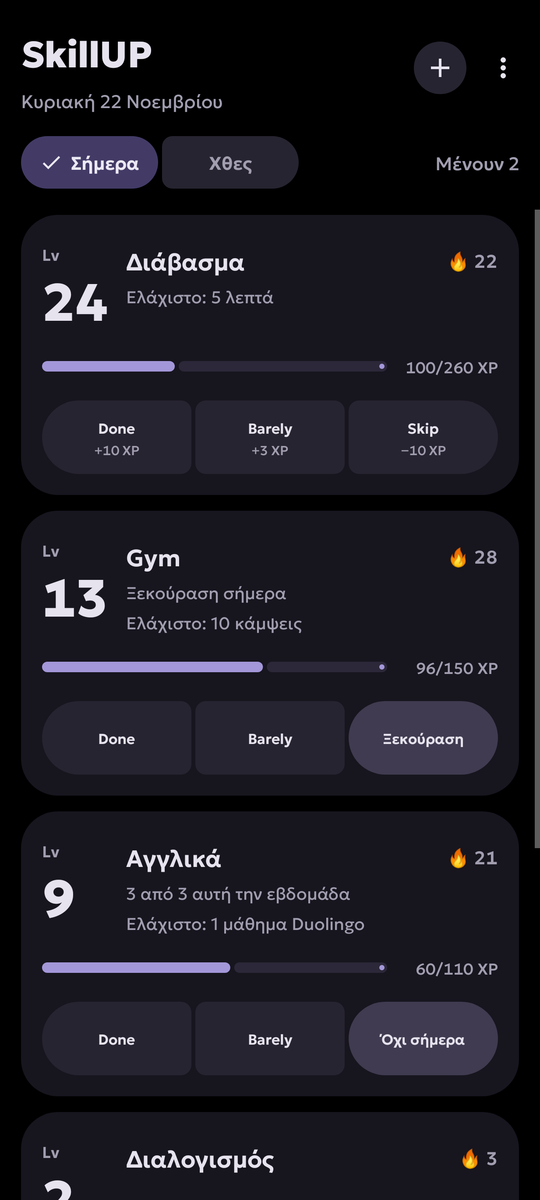
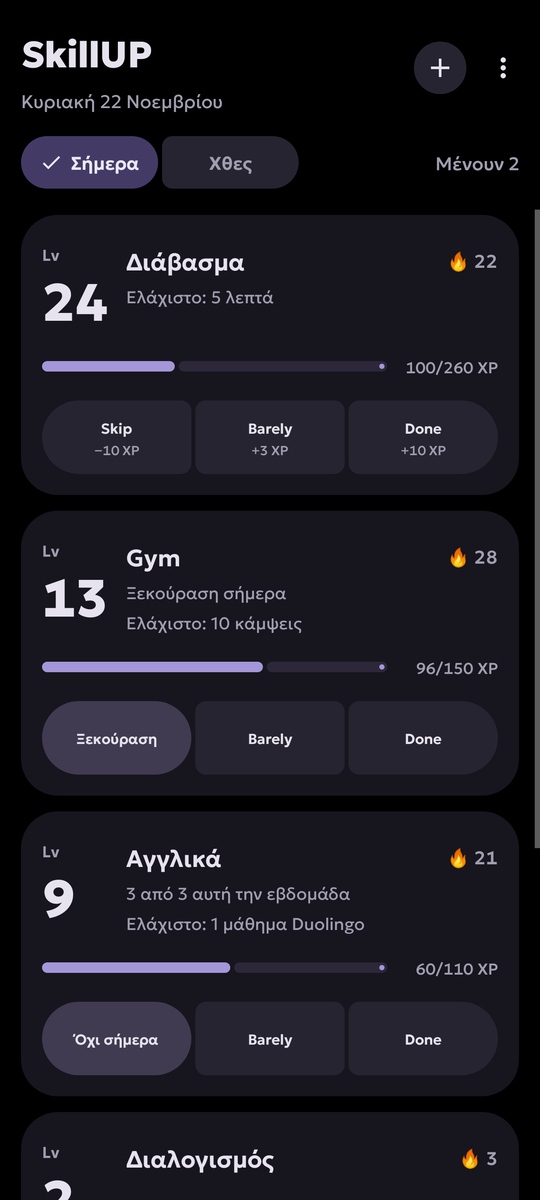
SkillUP 1.2: Skip on the left, Done on the right
Status buttons now read Skip (or Ξεκούραση / Όχι σήμερα) | Barely | Done.

Claude-Session: https://claude.ai/code/session_01B13zeonzutdtKumYqj7387

diff --git a/app/src/main/java/com/omiros/skillup/MainActivity.java b/app/src/main/java/com/omiros/skillup/MainActivity.java
@@ -322,7 +322,7 @@ public class MainActivity extends Activity {
         return lp;
     }
 
-    /** Done / Barely / (Skip | Ξεκούραση | Όχι σήμερα). Tapping the selected one clears it. */
+    /** (Skip | Ξεκούραση | Όχι σήμερα) / Barely / Done. Tapping the selected one clears it. */
     private View statusControl(final Engine.Task t, final LocalDate date, Engine.Result r) {
         Engine.Sched s = t.sched(date);
         final Character m = t.marks.get(date);
@@ -340,11 +340,15 @@ public class MainActivity extends Activity {
         LinearLayout segs = new LinearLayout(this);
         segs.setMinimumHeight(dp(this, 56));
         segs.setBaselineAligned(false);
-        segs.addView(segment("Done", earns ? "+" + s.doneXp() : null, sel == 0, 0,
-                LAVENDER, ON_LAVENDER, ON_LAVENDER_2, RIPPLE_ON_LAV, new Runnable() {
+        // Left to right: Skip (or Ξεκούραση / Όχι σήμερα), Barely, Done.
+        String first = weekly ? "Όχι σήμερα" : scheduled ? "Skip" : "Ξεκούραση";
+        segs.addView(segment(first, scheduled ? "−" + s.doneXp() : null, sel == 2, 0,
+                scheduled ? WINE : REST_SEL, scheduled ? ON_WINE : TEXT, scheduled ? ON_WINE_2 : TEXT2, RIPPLE,
+                new Runnable() {
                     @Override
                     public void run() {
-                        mark(t, date, m != null && m == Engine.DONE ? null : Engine.DONE);
+                        // Skip toggles an explicit skip; the other two just clear the day.
+                        mark(t, date, scheduled && (m == null || m != Engine.SKIP) ? Engine.SKIP : null);
                     }
                 }));
         segs.addView(segment("Barely", earns ? "+" + s.barelyXp() : null, sel == 1, 1,
@@ -354,14 +358,11 @@ public class MainActivity extends Activity {
                         mark(t, date, m != null && m == Engine.BARELY ? null : Engine.BARELY);
                     }
                 }));
-        String third = weekly ? "Όχι σήμερα" : scheduled ? "Skip" : "Ξεκούραση";
-        segs.addView(segment(third, scheduled ? "−" + s.doneXp() : null, sel == 2, 2,
-                scheduled ? WINE : REST_SEL, scheduled ? ON_WINE : TEXT, scheduled ? ON_WINE_2 : TEXT2, RIPPLE,
-                new Runnable() {
+        segs.addView(segment("Done", earns ? "+" + s.doneXp() : null, sel == 0, 2,
+                LAVENDER, ON_LAVENDER, ON_LAVENDER_2, RIPPLE_ON_LAV, new Runnable() {
                     @Override
                     public void run() {
-                        // Skip toggles an explicit skip; the other two just clear the day.
-                        mark(t, date, scheduled && (m == null || m != Engine.SKIP) ? Engine.SKIP : null);
+                        mark(t, date, m != null && m == Engine.DONE ? null : Engine.DONE);
                     }
                 }));
         box.addView(segs, new LinearLayout.LayoutParams(-1, -2));
